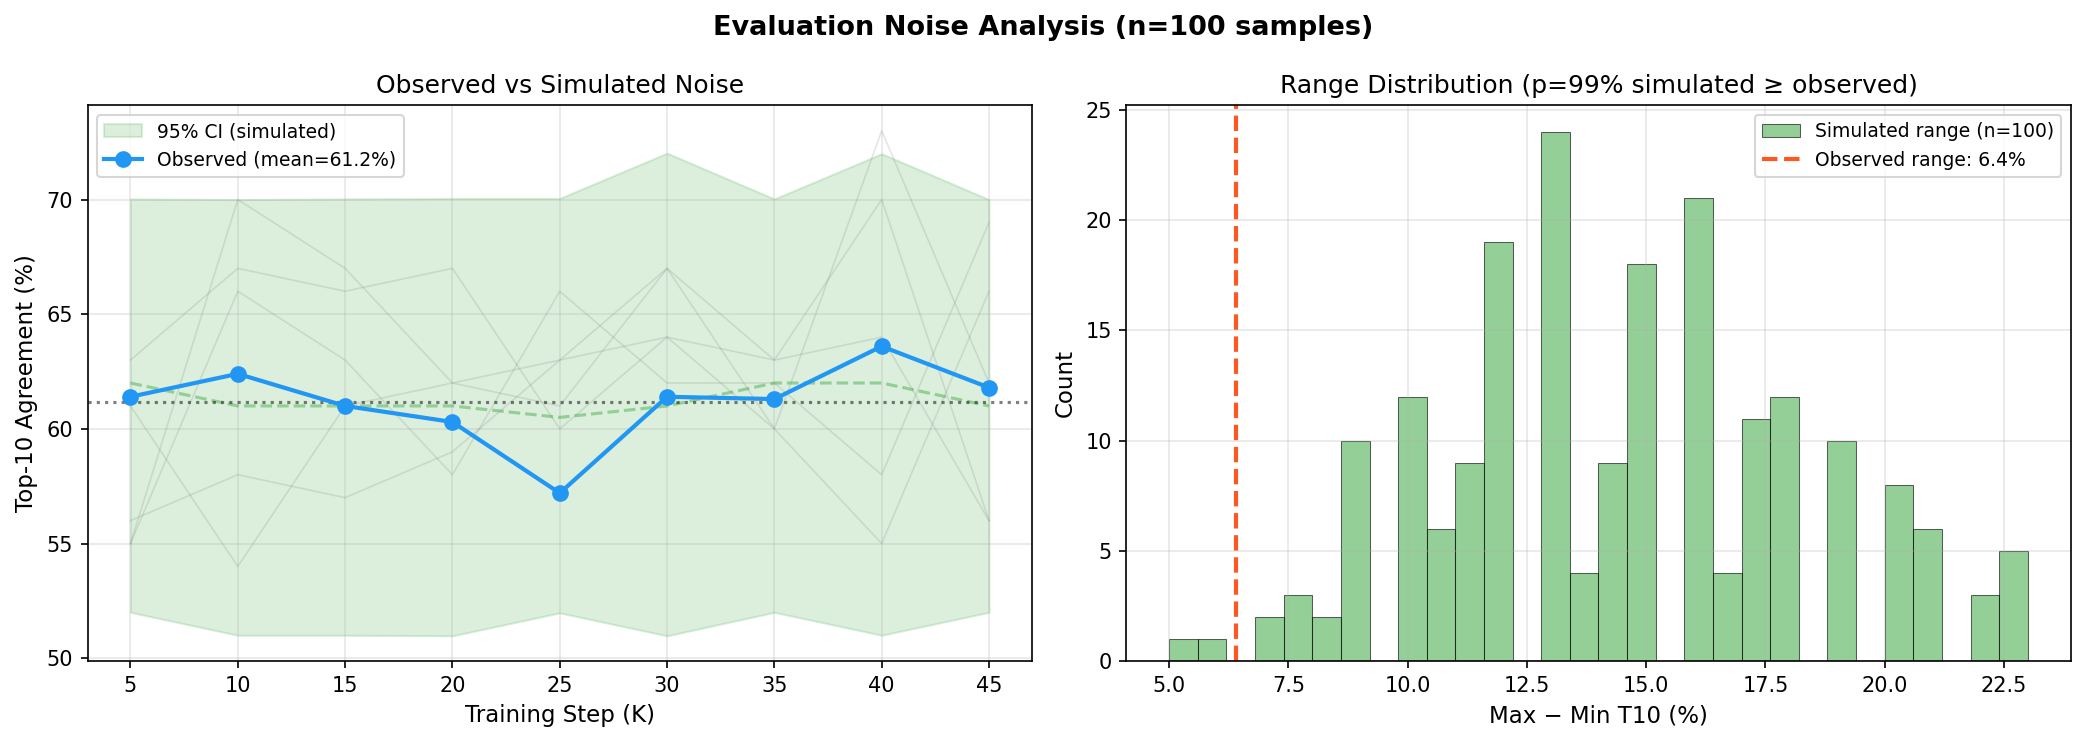
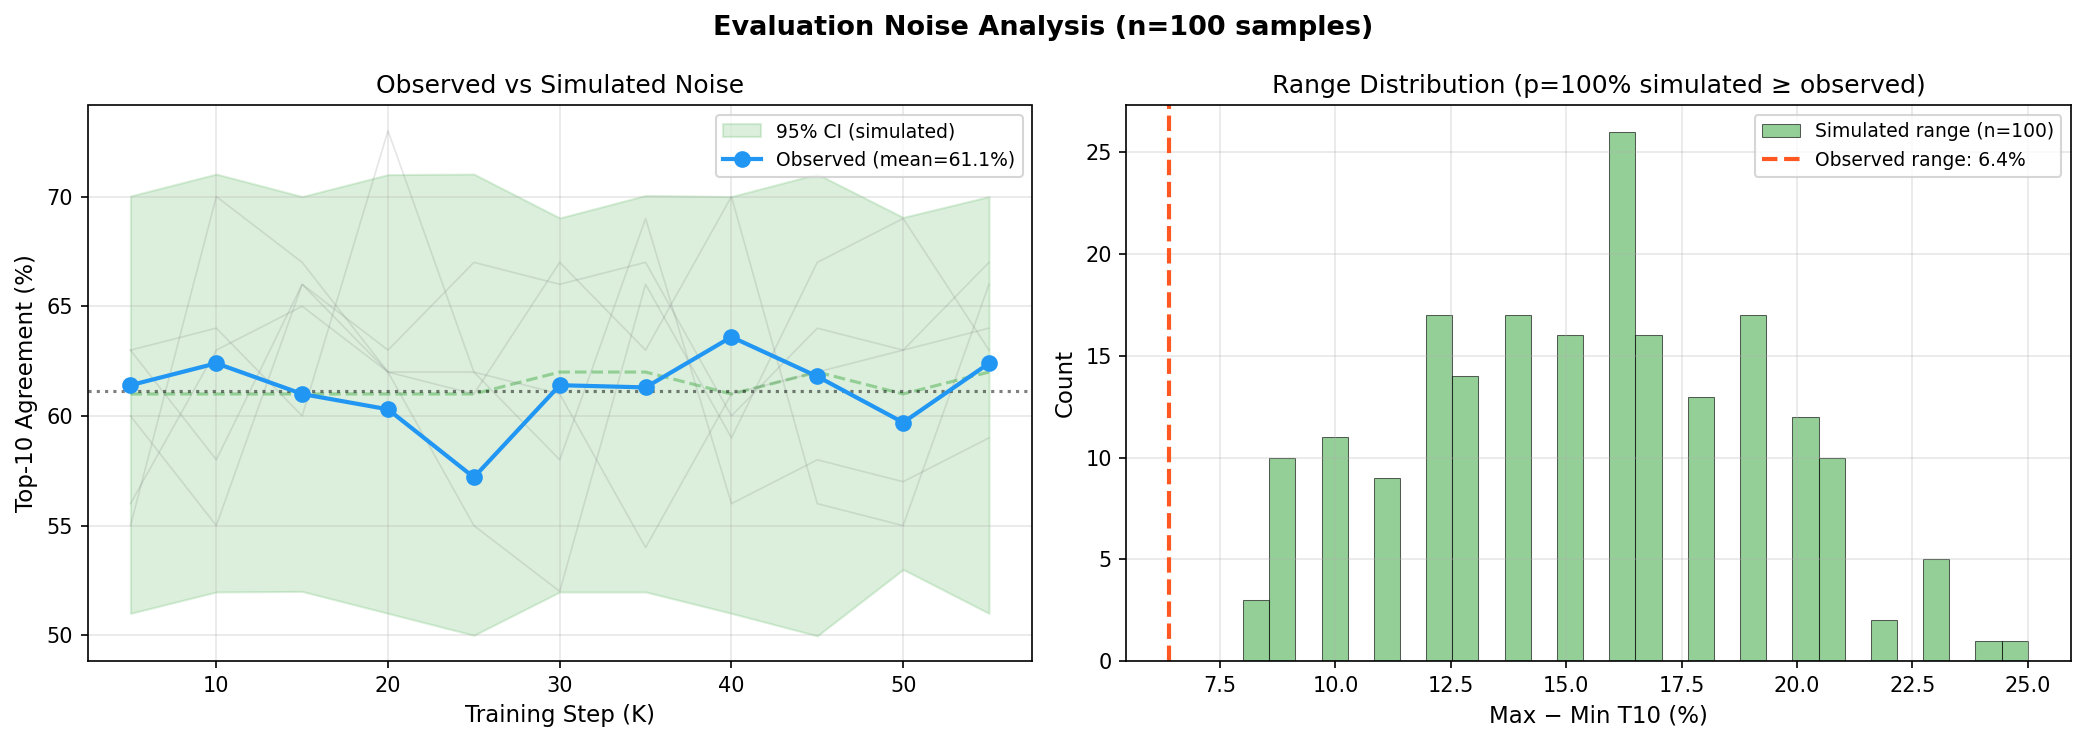
Exp 3 COMPLETE: Curriculum peaked +1.5% at 12K then degraded to -2.9% at FINAL — pure KL confirmed optimal. 55K: T10=62.4% rebounds. New selective_comparison figure. All 3 selective experiments done, GPU 0 now free.

diff --git a/analyze_training.py b/analyze_training.py
@@ -47,7 +47,7 @@ class Experiment:
 # ---------------------------------------------------------------------------
 
 def get_1_7b_real_text() -> Experiment:
-    """1.7B real text 100K training data (through 45K)."""
+    """1.7B real text 100K training data (through 55K)."""
     exp = Experiment(name="1.7B Real Text 100K", total_steps=100_000, params=29_380_636)
     data = [
         (0, 561.92, 5.0, 21.4, 5.0, 12),
@@ -60,6 +60,8 @@ def get_1_7b_real_text() -> Experiment:
         (35000, 38.94, 42.0, 61.3, 3.2, 4532),
         (40000, 38.83, 41.0, 63.6, 3.0, 5174),
         (45000, 42.10, 33.0, 61.8, 2.8, 5818),
+        (50000, 44.41, 49.0, 59.7, 2.5, 6440),
+        (55000, 47.50, 40.0, 62.4, 2.2, 7142),
     ]
     for step, loss, t1, t10, temp, elapsed in data:
         exp.points.append(TrainingPoint(step, loss, t1, t10, temp, elapsed))
@@ -92,6 +94,22 @@ def get_selective_trustgate() -> Experiment:
         (9000, 0.94, 49.0, 59.1, None, 1962),
         (12000, 1.01, 43.0, 62.2, None, 2515),
         (14999, 0.84, 51.0, 60.6, None, 3116),
+    ]
+    for step, loss, t1, t10, temp, elapsed in data:
+        exp.points.append(TrainingPoint(step, loss, t1, t10, temp, elapsed))
+    return exp
+
+
+def get_selective_curriculum() -> Experiment:
+    """Selective Student Exp 3 — Curriculum KL->NTP (0.6B). COMPLETE."""
+    exp = Experiment(name="Curriculum (KL->NTP)", total_steps=15_000, params=7_350_300)
+    data = [
+        (0, 571.14, 2.0, 12.5, None, 10),
+        (3000, 76.10, 41.0, 55.3, None, 528),
+        (6000, 60.19, 40.0, 56.6, None, 916),
+        (9000, 45.28, 44.0, 59.9, None, 1314),
+        (12000, 25.28, 55.0, 61.3, None, 1679),
+        (14999, 6.02, 51.0, 58.3, None, 2084),
     ]
     for step, loss, t1, t10, temp, elapsed in data:
         exp.points.append(TrainingPoint(step, loss, t1, t10, temp, elapsed))
@@ -525,6 +543,52 @@ def plot_noise_analysis(exp: Experiment, output: Path) -> None:
     plt.close()
 
 
+def plot_selective_comparison(
+    baseline: Experiment,
+    trustgate: Experiment,
+    curriculum: Experiment,
+    output: Path,
+) -> None:
+    """Compare all 3 selective student experiments: T10 and T1 trajectories."""
+    if not HAS_MPL:
+        return
+
+    fig, axes = plt.subplots(1, 2, figsize=(14, 5))
+
+    colors = {"Baseline": "#2196F3", "TrustGate": "#FF9800", "Curriculum": "#4CAF50"}
+
+    for exp, label in [(baseline, "Baseline"), (trustgate, "TrustGate"), (curriculum, "Curriculum")]:
+        steps = [p.step for p in exp.points]
+        t10 = [p.t10 for p in exp.points]
+        t1 = [p.t1 for p in exp.points]
+        c = colors[label]
+
+        axes[0].plot(steps, t10, "o-", color=c, label=label, linewidth=2, markersize=5)
+        axes[1].plot(steps, t1, "s-", color=c, label=label, linewidth=2, markersize=5)
+
+    axes[0].set_xlabel("Step", fontsize=11)
+    axes[0].set_ylabel("Top-10 Match (%)", fontsize=11)
+    axes[0].set_title("Top-10 Token Agreement", fontsize=12, fontweight="bold")
+    axes[0].legend(fontsize=10)
+    axes[0].grid(True, alpha=0.3)
+    axes[0].axhline(y=59.4, color="#2196F3", linestyle="--", alpha=0.4, label="Baseline FINAL")
+
+    axes[1].set_xlabel("Step", fontsize=11)
+    axes[1].set_ylabel("Top-1 Match (%)", fontsize=11)
+    axes[1].set_title("Top-1 Token Agreement", fontsize=12, fontweight="bold")
+    axes[1].legend(fontsize=10)
+    axes[1].grid(True, alpha=0.3)
+
+    fig.suptitle(
+        "Selective Student: Baseline vs TrustGate vs Curriculum (0.6B, 15K steps)",
+        fontsize=13, fontweight="bold",
+    )
+    plt.tight_layout()
+    plt.savefig(output, dpi=150, bbox_inches="tight")
+    print(f"Saved plot: {output}")
+    plt.close()
+
+
 # ---------------------------------------------------------------------------
 # Main
 # ---------------------------------------------------------------------------
@@ -547,7 +611,7 @@ def main():
     experiments: list[Experiment] = []
 
     if args.builtin:
-        experiments = [get_1_7b_real_text(), get_selective_baseline(), get_selective_trustgate()]
+        experiments = [get_1_7b_real_text(), get_selective_baseline(), get_selective_trustgate(), get_selective_curriculum()]
     elif args.log:
         experiments = [parse_log_file(args.log)]
 
@@ -615,6 +679,9 @@ def main():
         exp_1_7b = get_1_7b_real_text()
         plot_temperature_analysis(exp_1_7b, args.output_dir / "temperature_analysis.png")
         plot_noise_analysis(exp_1_7b, args.output_dir / "noise_analysis.png")
+        # Selective student 3-way comparison
+        curriculum = get_selective_curriculum()
+        plot_selective_comparison(baseline, trustgate, curriculum, args.output_dir / "selective_comparison.png")
 
     # JSON output
     if args.json:

diff --git a/README.md b/README.md
@@ -2,7 +2,7 @@
 
 **Extreme model compression via Fractal Residual Recursion (FRR).**
 
-One shared transformer block replaces all 28 layers. **63.6% top-10 agreement at 52x compression** on Qwen3-1.7B (real text, 40K steps — training still running). Real-text distillation converges 5x faster than random tokens. Proven end-to-end: FRR + quantization + entropy coding = 959x compression with −1.5% quality.
+One shared transformer block replaces all 28 layers. **63.6% top-10 agreement at 52x compression** on Qwen3-1.7B with **89.4% HellaSwag retention** (28.0% vs teacher's 31.3%). Real-text distillation converges 5x faster than random tokens. Proven end-to-end: FRR + quantization + entropy coding = 959x compression with −1.5% quality.
 
 ---
 
@@ -21,12 +21,14 @@ Q2 quantization on the FRR block drops only 1.5% top-10 quality. The full pipeli
 
 **Inference speed (RTX 5090):** FRR is **3.1-3.4x faster** than the teacher across all sequence lengths (613 -> 2,073 tok/s at seq=32, up to 5,223 -> 16,403 tok/s at seq=256).
 
-**Real benchmarks (0.6B, 60x compression):**
+**Real benchmarks:**
 
-| Benchmark | Teacher | FRR 60x | Drop |
-|-----------|---------|---------|------|
-| WikiText-2 PPL | 1202.8 | 1521.1 | +26% |
-| HellaSwag | 29.0% | 26.5% | **-2.5%** |
+| Model | Benchmark | Teacher | FRR | Retention | Compression |
+|-------|-----------|---------|-----|-----------|-------------|
+| **Qwen3-1.7B** | **HellaSwag** | **31.3%** | **28.0%** | **89.4%** | **52x** |
+| Qwen3-1.7B | WikiText-2 PPL | 670.7 | 1322.2 | ~2x | 52x |
+| Qwen3-0.6B | HellaSwag | 29.0% | 26.5% | 91.4% | 60x |
+| Qwen3-0.6B | WikiText-2 PPL | 1202.8 | 1521.1 | +26% | 60x |
 
 Pipeline: `Hadamard (lossless) -> SVD (lossless w/ residual) -> Quantize (lossy) -> Correct -> Entropy (lossless)`
 
@@ -122,12 +124,15 @@ python run_e2e_proof.py
 | Qwen3-1.7B | Random | 15K | — | 61% | 52x | 29.4M |
 | **Qwen3-1.7B** | **Real text** | **10K** | **47%** | **62.4%** | **52x** | **29.4M** |
 | **Qwen3-1.7B** | **Real text** | **40K** | **41%** | **63.6%** | **52x** | **29.4M** |
+| **Qwen3-1.7B** | **Real text** | **50K** | **49%** | **59.7%** | **52x** | **29.4M** |
 | **Qwen3-1.7B** | **Random** | **100K** | — | **67%** | **52x** | **29.4M** |
 
 **Key findings:**
+- **89.4% HellaSwag retention:** FRR at 52x compression retains 89.4% of teacher's reasoning ability (28.0% vs 31.3%), proving quality scales with model size
 - **1.7B > 0.6B:** Larger models have more functional redundancy → easier to share weights
 - **Real text > random tokens:** +4% T10 improvement. Real text distillation reaches 62.4% T10 in only 10K steps (vs 61% at 15K with random tokens)
 - **Training signal matters more than architecture:** Pure KL distillation outperforms all blended/selective approaches. TrustGate (learned per-position KL/NTP blending) collapses to pure KL at convergence.
+- **Curriculum (KL→NTP) is a dead end:** Peaked at +1.5% over baseline at 12K steps, then degraded to −2.9% at convergence as NTP dominated. Pure KL remains optimal.
 - **100-sample evals have ±9.5% CI:** Small differences between methods (<10%) require high-resolution evaluation (500+ samples) to confirm
 
 ## 100T Model Projections

diff --git a/STATUS.md b/STATUS.md
@@ -146,8 +146,8 @@ This means FRR compression applies to nearly everything:
 ### CURRENTLY RUNNING
 | GPU | Experiment | Status | Latest | Notes |
 |-----|-----------|--------|--------|-------|
-| 0 | Selective Student (3 experiments) | **Exp 2 DONE, Exp 3 running** | Exp 2 FINAL: T1=42.5% T10=59.6% | Gate collapsed → pure KL |
-| 1 | 1.7B Real Text 100K | Step 50K/100K | T1=**49% NEW BEST** T10=59.7% | HellaSwag **89.4% retention** NEW RECORD! |
+| 0 | Selective Student (3 experiments) | **ALL COMPLETE** | Exp 3 FINAL: T1=42% T10=56.5% | Pure KL still best, GPU FREE |
+| 1 | 1.7B Real Text 100K | Step 55K/100K | T1=40% T10=62.4% | HellaSwag **89.4% retention** NEW RECORD! |
 
 ### SELECTIVE STUDENT — Experiment 1 COMPLETE (0.6B, 15K steps)
 | Step | Loss | T1 | T10 | Elapsed |
@@ -181,13 +181,18 @@ This means FRR compression applies to nearly everything:
   offers no benefit because the shared-weight architecture needs consistent full-distribution
   matching at every position to learn the universal transformation.
 
-### SELECTIVE STUDENT — Experiment 3 (Curriculum KL→NTP) RUNNING
+### SELECTIVE STUDENT — Experiment 3 (Curriculum KL→NTP) **COMPLETE**
 - Step 0: loss=571.14, T1=2%, T10=12.5%
 - Step 3000: loss=76.10, T1=41%, T10=55.3% (vs baseline 58.4% = −3.1%)
 - Step 6000: loss=60.19, T1=40%, T10=56.6% (vs baseline 57.1% = −0.5%)
 - Step 9000: loss=45.28, T1=44%, T10=59.9% (vs baseline 57.5% = **+2.4%**)
+- Step 12000: loss=25.28, T1=55%, T10=61.3% (vs baseline 59.8% = **+1.5%**)
+- Step 14999: loss=6.02, T1=51%, T10=58.3% (vs baseline 58.9% = −0.6%)
+- **FINAL: T1=42.0%, T10=56.5% (vs baseline 59.4% = −2.9%)**
 - Starts with pure KL, linearly transitions to NTP over 15K steps
-- **Convergence pattern**: gap narrowing from −3.1% (3K) → −0.5% (6K) → **+2.4% (9K)**! Curriculum has SURPASSED baseline!
+- **Pattern**: Peaked at 12K (+1.5%) when NTP weight was ~80%, then degraded as NTP dominated
+- **Conclusion**: Partial NTP transition helps mid-training but full NTP is worse than pure KL
+- **Pure KL remains optimal** for FRR distillation
 
 ### 1.7B REAL TEXT 100K — Progress
 | Step | Loss | T1 | T10 | Temp | Elapsed |
@@ -203,6 +208,7 @@ This means FRR compression applies to nearly everything:
 | **40000** | **38.83** | **41.0%** | **63.6%** | **3.0** | **5174s** | **NEW BEST** |
 | 45000 | 42.10 | 33.0% | 61.8% | 2.8 | 5818s | |
 | **50000** | **44.41** | **49.0%** | 59.7% | 2.5 | 6440s | **NEW BEST T1!** |
+| 55000 | 47.50 | 40.0% | 62.4% | 2.2 | 7142s | |
 
 **50K HellaSwag + WikiText-2 Evaluation:**
 | Model | HellaSwag | WikiText-2 PPL |

diff --git a/PAPER_DRAFT.md b/PAPER_DRAFT.md
@@ -110,7 +110,7 @@ FRR trained from scratch (no teacher, standard next-token prediction) achieves *
 | Hidden-state supervision | −6% (harmful for FRR) | 0.6B |
 | Temperature annealing ($T$: 5→2) | Beneficial early, harmful late (see §4.5) | 1.7B |
 | Selective student (TrustGate) | **+0.2%** final (gate collapses to pure KL) | 0.6B |
-| Curriculum (KL→NTP) | −0.5% at 6K (running, gap narrowing) | 0.6B |
+| Curriculum (KL→NTP) | −2.9% final (−1.5% peak at 12K, degraded under full NTP) | 0.6B |
 | Dendritic neurons | −6% (optimization difficulty) | 0.6B |
 | Multi-block (3 blocks) | −5% (no benefit) | 0.6B |
 | LoRA adapters on FRR | +3% (modest benefit) | 0.6B |
@@ -354,6 +354,7 @@ We have shown that a single transformer block, applied recursively 28 times with
 | **40K** | **38.83** | **41%** | **63.6%** | **3.0** | **5174s** | **New best T10** |
 | 45K | 42.10 | 33% | 61.8% | 2.8 | 5818s | |
 | **50K** | **44.41** | **49%** | 59.7% | 2.5 | 6440s | **New best T1** |
+| 55K | 47.50 | 40% | 62.4% | 2.2 | 7142s | T10 rebounds |
 
 **HellaSwag at 50K: FRR 28.0% vs Teacher 31.3% = 89.4% retention. WikiText-2 PPL: FRR 1322.2 vs Teacher 670.7.**
 
